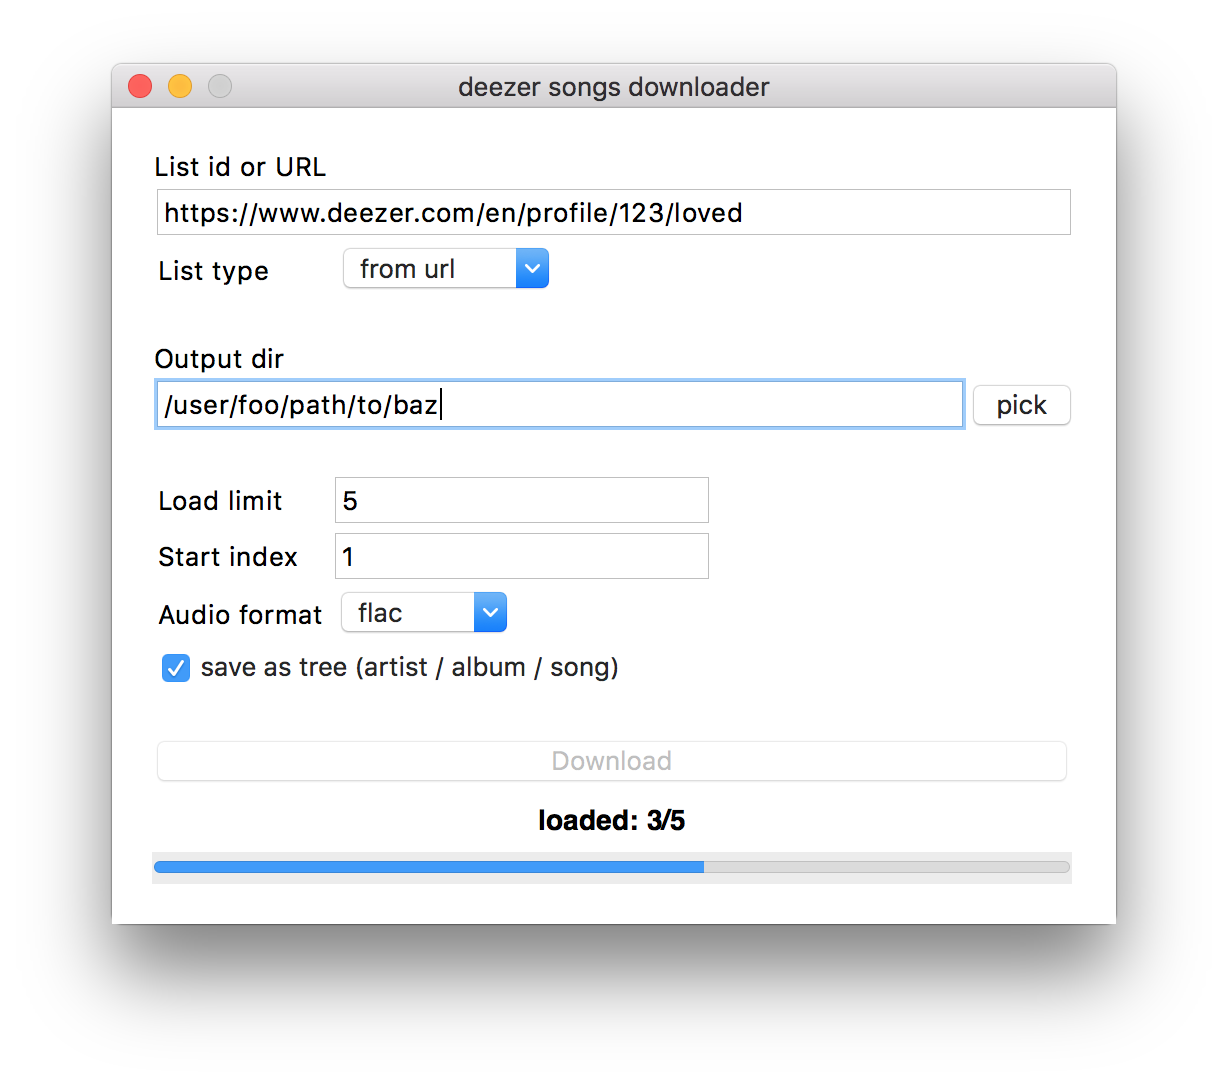
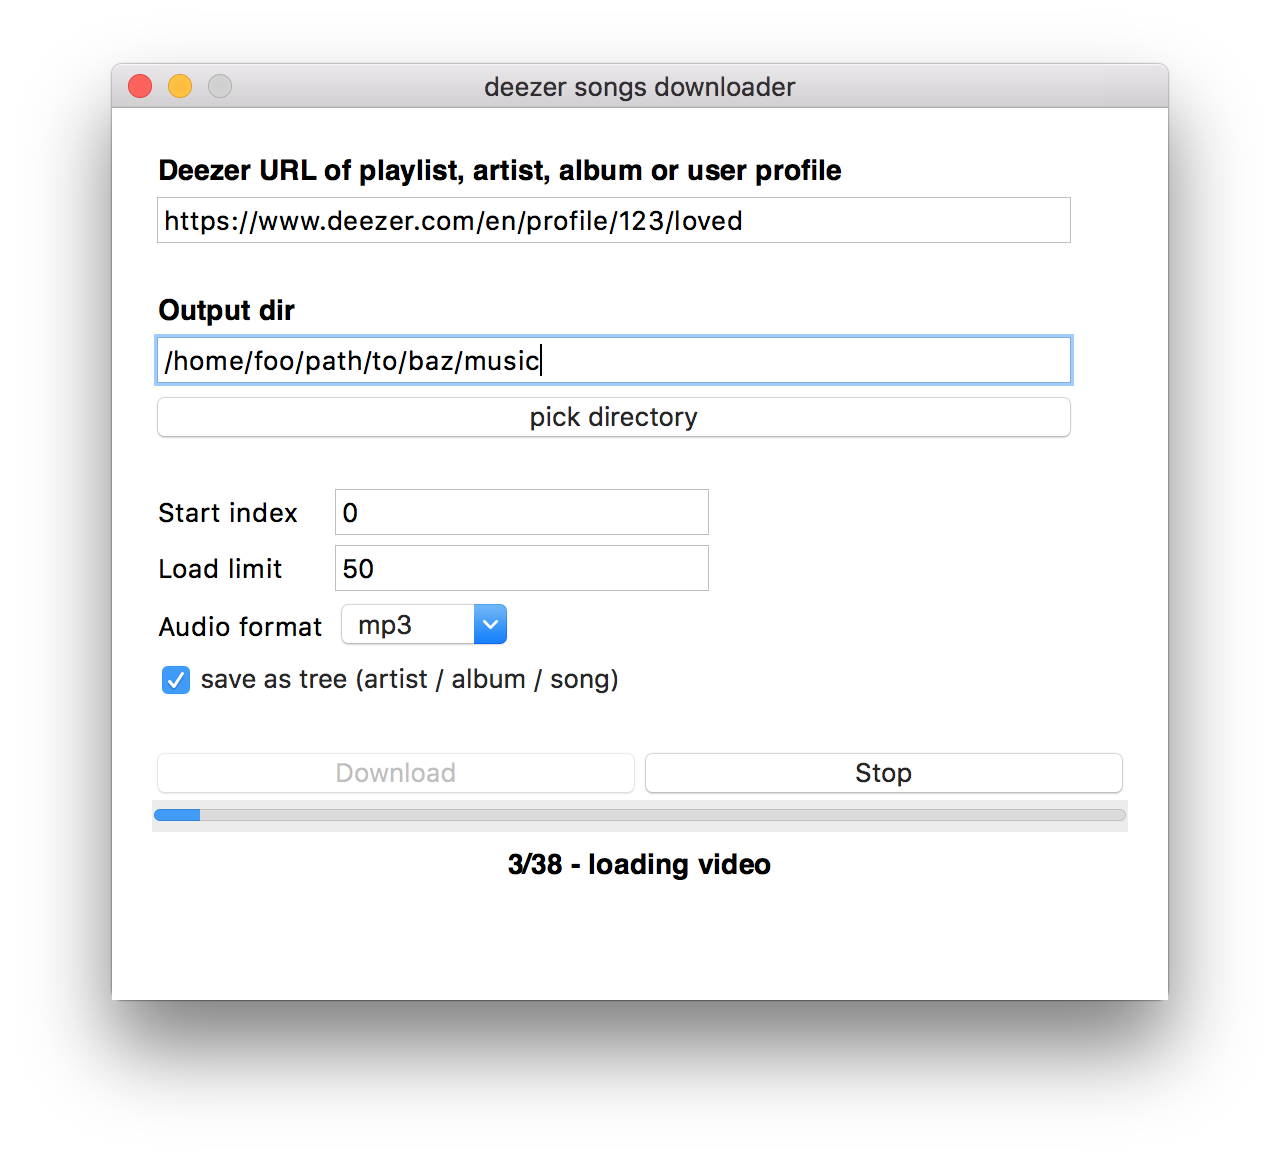
💎 bump version

Changed region(s): [[0.0619, 0.0609, 0.9283, 0.8828], [0.5261, 0.4566, 0.557, 0.4871]]

diff --git a/deezload/cmd.py b/deezload/cmd.py
@@ -16,7 +16,7 @@ logger = logging.getLogger(__name__)
 def main():
     parser = argparse.ArgumentParser()
     parser.add_argument('urls', type=str, nargs='*',
-                        help='list id or resource URL')
+                        help="list of URLs")
     parser.add_argument('-i', dest='index', type=int, default=0,
                         help='start index')
     parser.add_argument('-l', dest='limit', type=int, default=50,

diff --git a/setup.py b/setup.py
@@ -3,7 +3,7 @@ from setuptools import setup
 
 setup(
     name='deezload',
-    version='0.1.6',
+    version='0.1.7',
     packages=['deezload'],
     url='https://github.com/vanyakosmos/deezload',
     license='MIT',

diff --git a/README.md b/README.md
@@ -1,6 +1,16 @@
 # deezload
 
-Utility for downloading playlists, albums and favorite tracks from deezer.
+Utility for downloading playlists, artist's top tracks, albums and favorite user's tracks from Deezer.
+
+
+## TOC
+
+- [install](#install)
+- [usage](#usage)
+	- [gui](#gui)
+	- [command line](#command-line)
+	- [standalone app](#build-standalone-app)
+- [how it works](#how-it-works)
 
 
 ## install
@@ -11,11 +21,13 @@ pip install deezload[pyinstaller]  # if want to build standalone app
 pip install git+https://github.com/vanyakosmos/deezload  # latest
 ```
 
-### os x
+### install ffmpeg
+
+os x:
 ```bash
 brew search ffmpeg
 ```
-### [another systems](https://github.com/adaptlearning/adapt_authoring/wiki/Installing-FFmpeg)
+another systems: [boop](https://github.com/adaptlearning/adapt_authoring/wiki/Installing-FFmpeg)
 
 
 ## usage
@@ -23,6 +35,7 @@ brew search ffmpeg
 ### gui
 
 ```bash
+# start
 deezload
 ```
 
@@ -32,13 +45,8 @@ deezload
 ### command line
 
 ```bash
-# basic
-deezload 123  # will load playlist with id=123
-deezload -t album 123
-deezload album/123
-deezload https://www.deezer.com/en/album/123
-
 # load album
+deezload album/123
 deezload https://www.deezer.com/en/album/123
 
 # load playlist
@@ -57,22 +65,21 @@ deezload https://www.deezer.com/en/artist/123
 
 help:
 ```
-usage: cmd.py [-h] [-t LIST_TYPE] [-i INDEX] [-l LIMIT] [-d] [-o OUTPUT_DIR]
-              [-f FORMAT] [--tree] [--build BUILD]
-              [list_id]
+usage: deezload [-h] [-i INDEX] [-l LIMIT] [-d] [-o OUTPUT_DIR] [-f FORMAT]
+                [--tree] [--build BUILD]
+                [urls [urls ...]]
 
 positional arguments:
-  list_id        list id or resource URL
+  urls           list of URLs
 
 optional arguments:
   -h, --help     show this help message and exit
-  -t LIST_TYPE   list type
   -i INDEX       start index
   -l LIMIT       load limit
   -d             debug mode
-  -o OUTPUT_DIR  output directory
-  -f FORMAT      output audio file format
-  --tree         save files as tree: artist/album/song
+  -o OUTPUT_DIR  output directory (default HOME/deezload)
+  -f FORMAT      output audio file format (default mp3)
+  --tree         save files as tree: artist/album/song (default true)
   --build BUILD  build output path
 ```
 
@@ -93,17 +100,4 @@ deezload --build path/to/build/output
 - search for each song on youtube
 - download audio steam and convert into needed format
 - restore songs metadata
-- save files as tree (if specified)
-
-### tree example
-```
-artist 1
-	album 1
-		song 1
-		song 2
-artist 2
-	album 1
-		song 1
-	album 1
-		song 1
-```
+- save files
